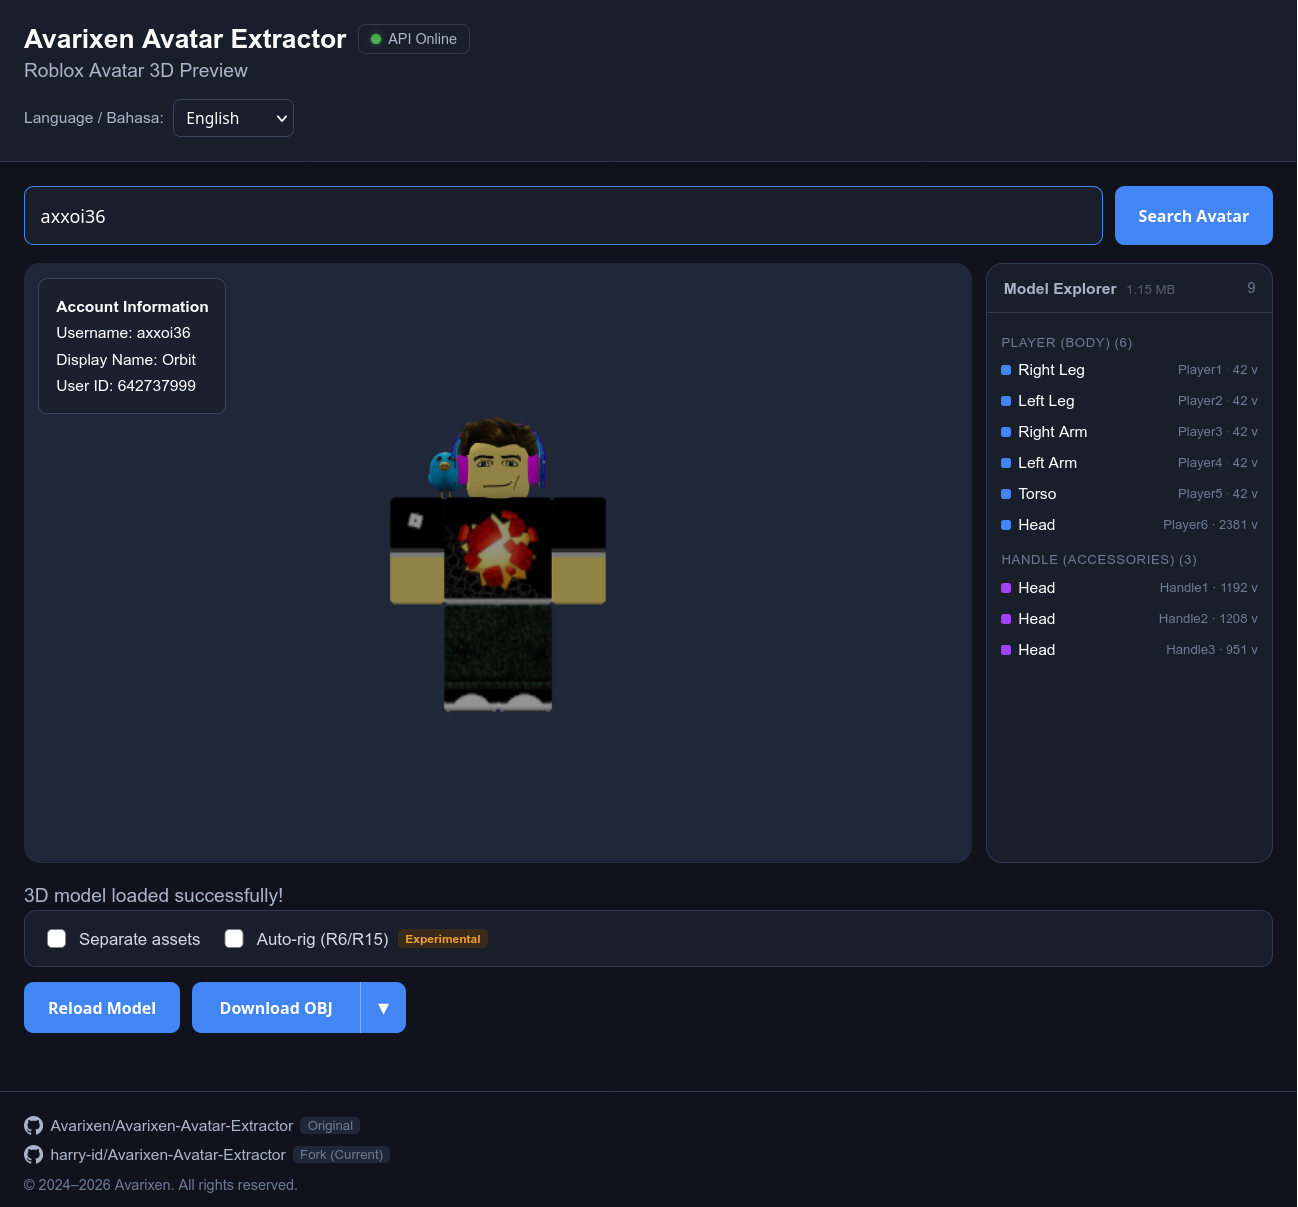
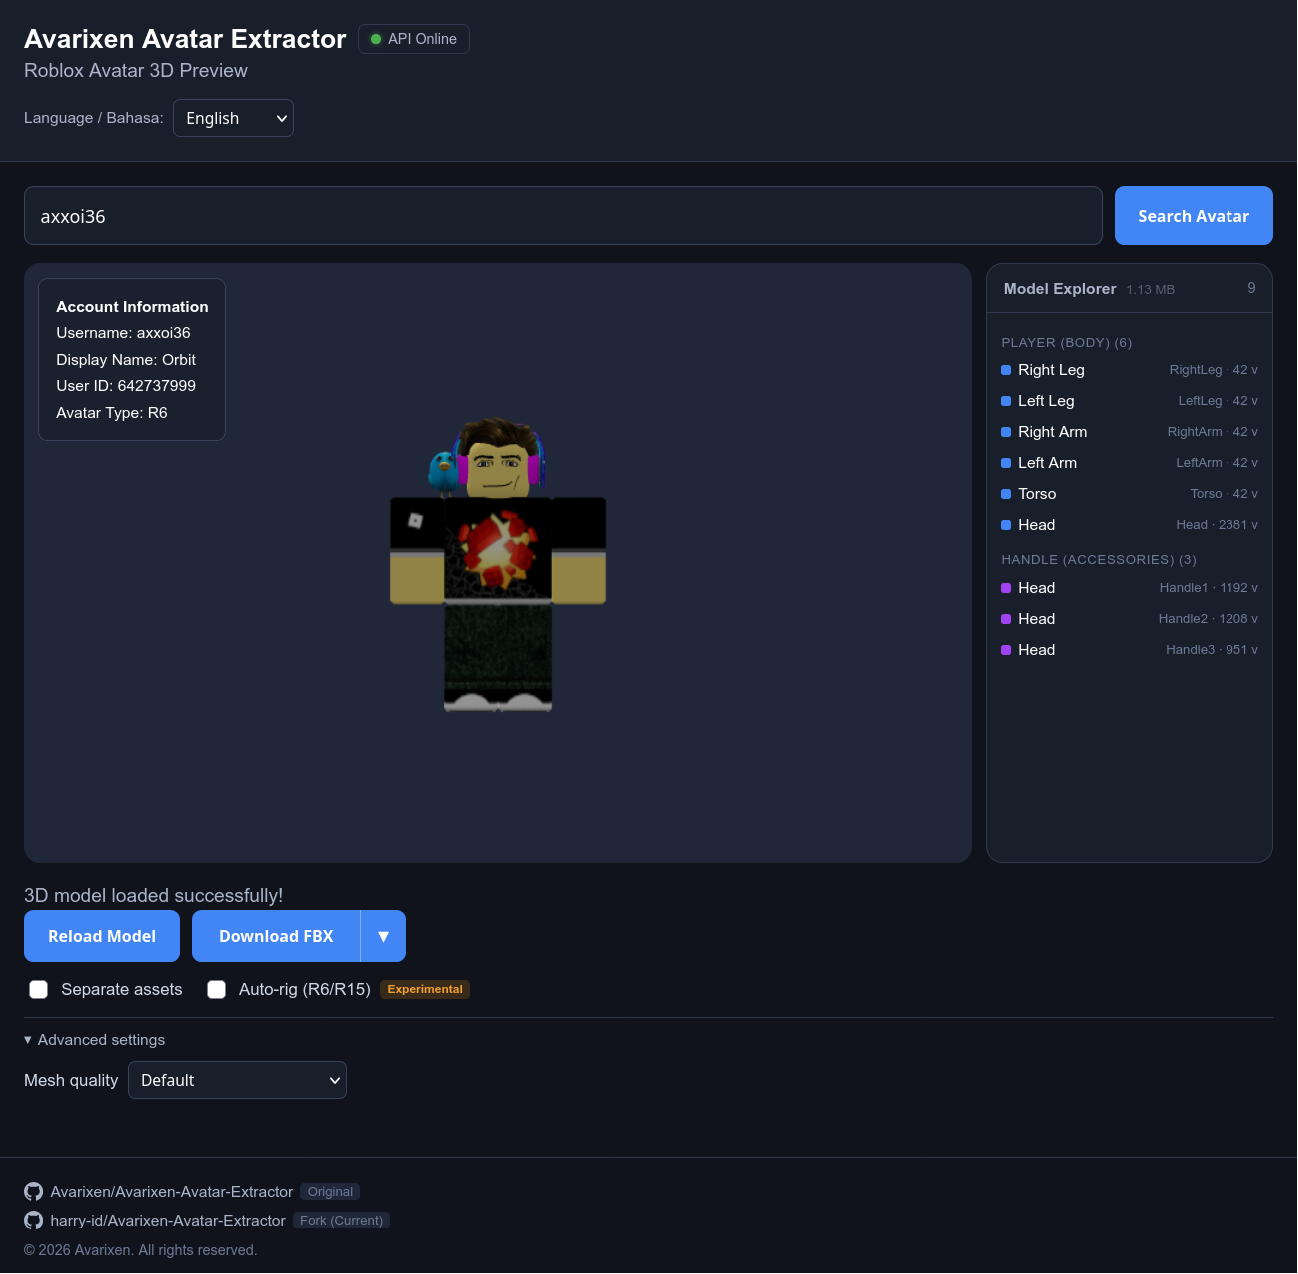
docs: add live demo link and refresh preview

diff --git a/README.md b/README.md
@@ -2,6 +2,12 @@
 
 Avarixen Avatar Extractor (AAE) is a web-based Roblox avatar extraction tool that retrieves avatar models, previews them in 3D, and exports them as ZIP files containing OBJ, MTL, and texture files.
 
+## Try the demo
+
+**[Try out the demo →](https://harry-id.github.io/Avarixen-Avatar-Extractor/)**
+
+The live demo is hosted on GitHub Pages, with the API running on a server in Europe.
+
 ## Preview
 
 <img src="preview.png" alt="Avarixen Avatar Extractor preview" width="480">
